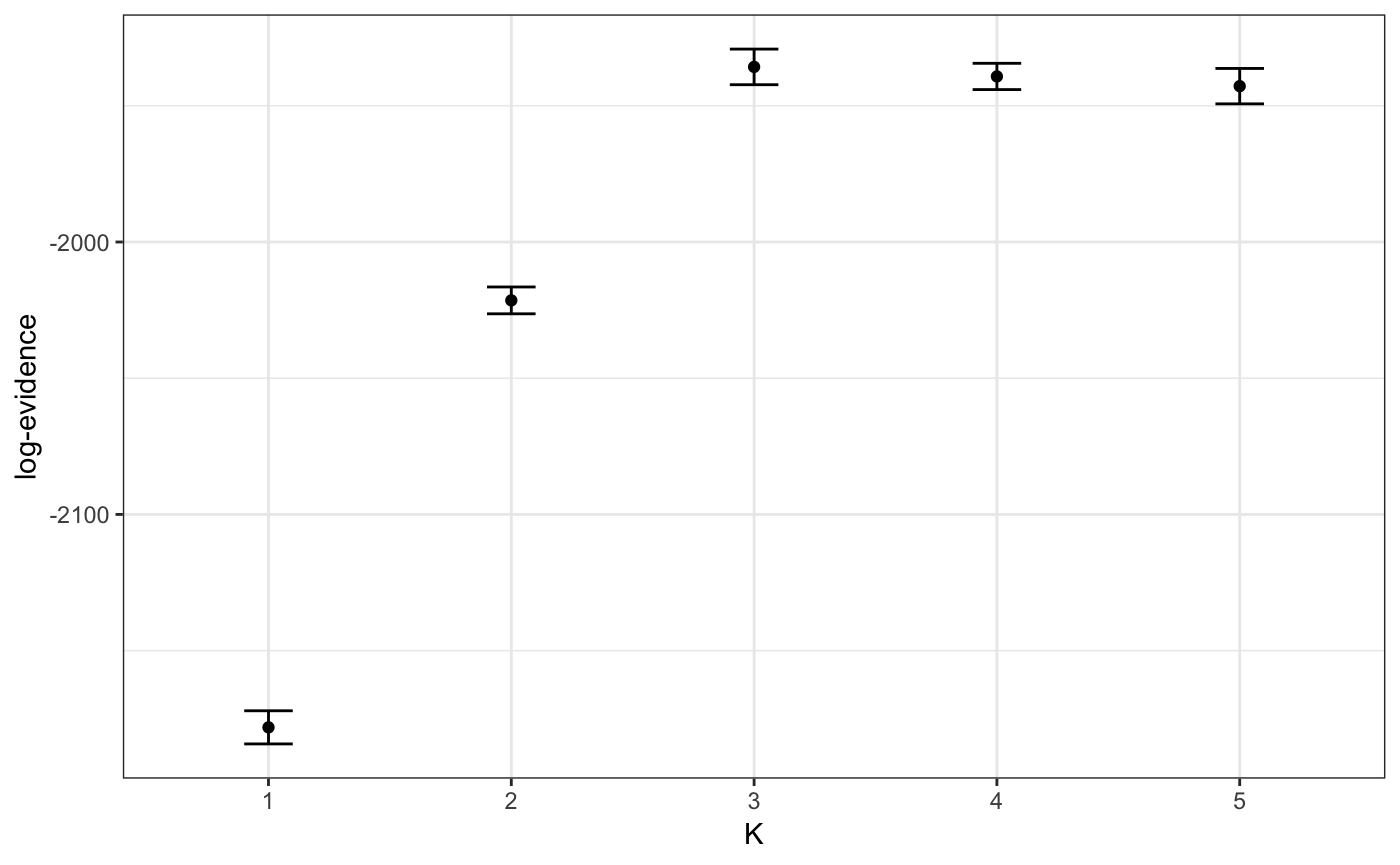
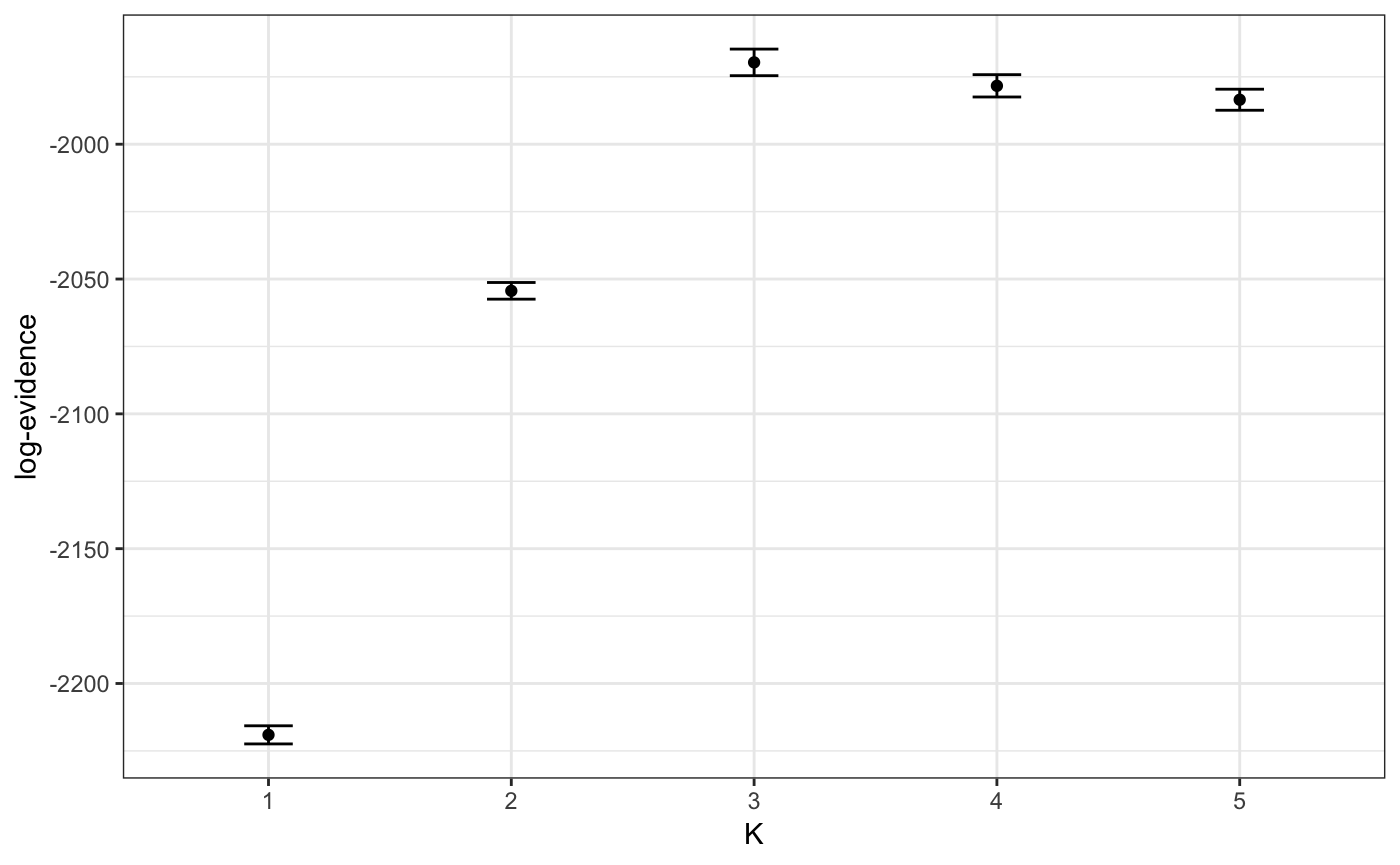
expanded vignettes

diff --git a/docs/articles/basic-tutorial.html b/docs/articles/basic-tutorial.html
@@ -201,63 +201,63 @@ myproj &lt;-<span class="st"> </span><span class="kw"><a href="../reference/bind
 ## 
   |                                                                       
   |=================================================================| 100%
-##    converged within 2000 iterations
+##    converged within 1900 iterations
 ## Sampling phase
 ## 
   |                                                                       
   |=================================================================| 100%
-##    completed in 2.19893 seconds
+##    completed in 3.56876 seconds
 ## 
 ## Running MCMC for K = 2
 ## Burn-in phase
 ## 
   |                                                                       
   |=================================================================| 100%
-##    converged within 1600 iterations
+##    converged within 1700 iterations
 ## Sampling phase
 ## 
   |                                                                       
   |=================================================================| 100%
-##    completed in 4.94516 seconds
+##    completed in 5.4863 seconds
 ## 
 ## Running MCMC for K = 3
 ## Burn-in phase
 ## 
   |                                                                       
   |=================================================================| 100%
-##    converged within 2200 iterations
+##    converged within 1700 iterations
 ## Sampling phase
 ## 
   |                                                                       
   |=================================================================| 100%
-##    completed in 5.82031 seconds
+##    completed in 5.49854 seconds
 ## 
 ## Running MCMC for K = 4
 ## Burn-in phase
 ## 
   |                                                                       
   |=================================================================| 100%
-##    converged within 1400 iterations
+##    converged within 1800 iterations
 ## Sampling phase
 ## 
   |                                                                       
   |=================================================================| 100%
-##    completed in 5.71196 seconds
+##    completed in 6.17393 seconds
 ## 
 ## Running MCMC for K = 5
 ## Burn-in phase
 ## 
   |                                                                       
   |=================================================================| 100%
-##    converged within 1500 iterations
+##    converged within 1700 iterations
 ## Sampling phase
 ## 
   |                                                                       
   |=================================================================| 100%
-##    completed in 7.47139 seconds
+##    completed in 7.55239 seconds
 ## 
 ## Processing results</code></pre>
-<pre><code>## Total run-time: 28.63 seconds</code></pre>
+<pre><code>## Total run-time: 30.62 seconds</code></pre>
 <p>If any values of K failed to converge then we can use the same <code><a href="../reference/run_mcmc.html">run_mcmc()</a></code> function to re-run the MCMC for just a single value of K and with different parameters (for example a longer burn-in). This will overwrite the existing output for the specified value of K, but will leave all other values untouched:</p>
 </div>
 <div id="comparing-values-of-k" class="section level3">
@@ -267,10 +267,15 @@ myproj &lt;-<span class="st"> </span><span class="kw"><a href="../reference/bind
 <div class="sourceCode"><pre class="sourceCode r"><code class="sourceCode r"><span class="kw"><a href="../reference/plot_GTI_path.html">plot_GTI_path</a></span>(myproj, <span class="dt">K =</span> <span class="dv">3</span>)</code></pre></div>
 <p><img src="basic-tutorial_files/figure-html/unnamed-chunk-10-1.png" width="700"></p>
 <p>All plots produced by MALECOT are produced using <a href="https://ggplot2.tidyverse.org/">ggplot</a>, meaning they can be stored and modified later on - for example adding titles, legends etc.</p>
-<p>In order for our evidence estimate to be unbiased it is important that the GTI path is relatively smooth. We can modify the smoothness of the path in two ways: 1) by increasing the number of <code>rungs</code> used in the MCMC, 2) by changing the value of <code>GTI_pow</code> which controls the curvature of the path (higher values lead to more steep curvature). Ideally we want a straight path, i.e. we want as little curvature as possible. In the example above we have a good number of rungs and a nice straight path, so there is no need to re-run the MCMC. <strong>This check should be performed on every value of K</strong>.</p>
+<p>In order for our evidence estimate to be unbiased it is important that the GTI path is relatively smooth. We can modify the smoothness of the path in two ways: 1) by increasing the number of <code>rungs</code> used in the MCMC, 2) by changing the value of <code>GTI_pow</code> which controls the curvature of the path (higher values lead to more steep curvature). Ideally we want a straight path, i.e. we want as little curvature as possible. In the example above we have a good number of rungs and the path is about as straight as we can get it, so there is no need to re-run the MCMC. <strong>This check should be performed on every value of K</strong>.</p>
 <p>Once we are happy with our GTI paths we can look at our evidence estimates, first of all in log space:</p>
 <div class="sourceCode"><pre class="sourceCode r"><code class="sourceCode r"><span class="kw"><a href="../reference/plot_logevidence_K.html">plot_logevidence_K</a></span>(myproj)</code></pre></div>
 <p><img src="basic-tutorial_files/figure-html/unnamed-chunk-11-1.png" width="700"></p>
+<p>We can see a clear signal for K=3 or higher, and the 95% credible intervals are nice and tight. If we needed tighter credible intervals at this stage then we could re-run the MCMC (for the problem values of K only) with a larger number of <code>samples</code>.</p>
+<p>We can also plot the full posterior distribution of K, which is obtained by transforming these values out of log space and normalising to sum to one:</p>
+<div class="sourceCode"><pre class="sourceCode r"><code class="sourceCode r"><span class="kw"><a href="../reference/plot_posterior_K.html">plot_posterior_K</a></span>(myproj)</code></pre></div>
+<p><img src="basic-tutorial_files/figure-html/unnamed-chunk-12-1.png" width="700"></p>
+<p>This second plot is usually more straightforward to interpret, as it is in linear space and so can be understood in terms of ordinary probability. In this example we can see strong evidence for K=3, with a posterior probability of &gt;0.99. Again, if we had seen wide credible intervals at this stage then it would have been worth repeating the MCMC with a larger number of <code>samples</code>, but in this case the result is clear and so there is no need.</p>
 </div>
   </div>
 
